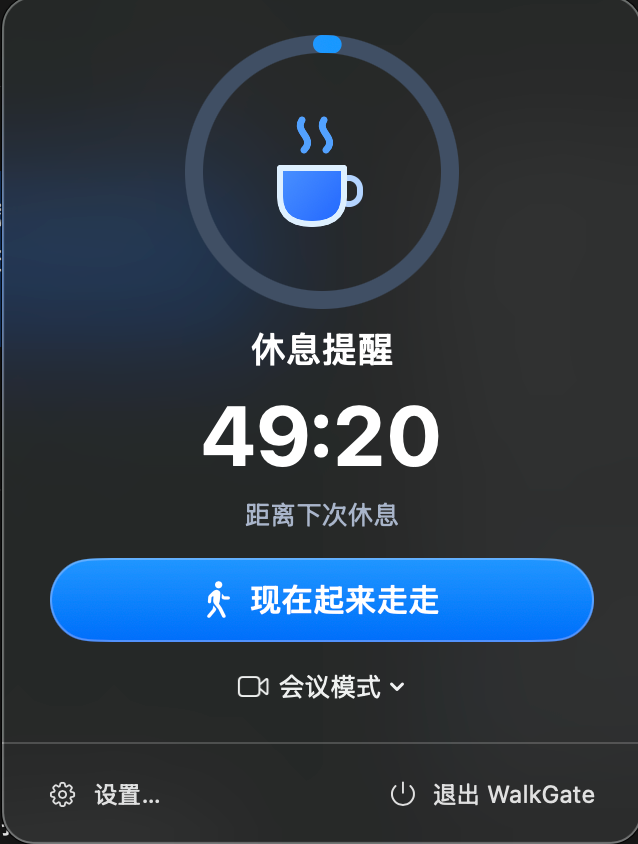
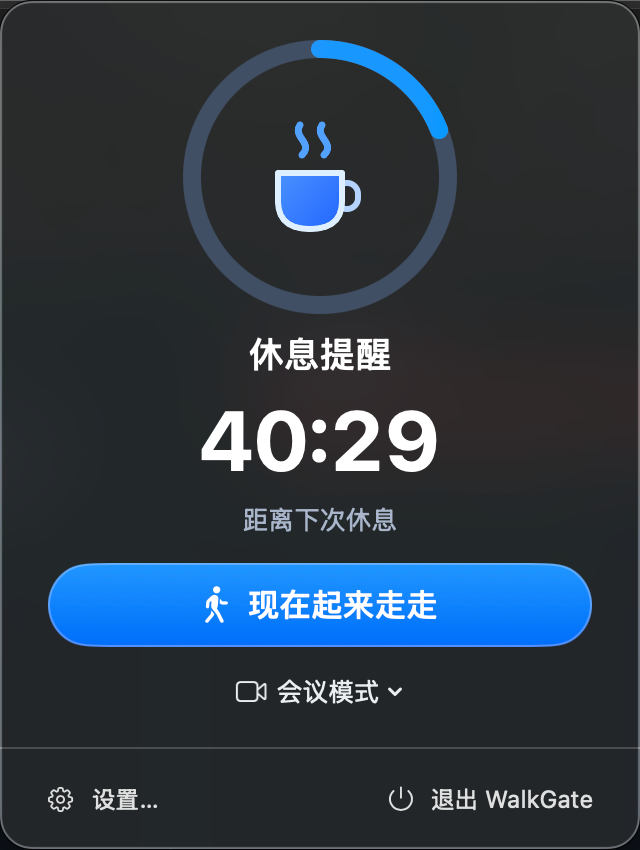
docs: 更新裁剪后的界面预览
- 替换为只保留主面板的无损截图
- 添加右下角休息卡片截图与说明

diff --git a/README.md b/README.md
@@ -6,8 +6,16 @@
 
 > 当前版本：`0.2.0` · 支持 macOS 14 及以上版本
 
+## 界面预览
+
 <p align="center">
-  <img src="docs/images/walkgate-menu.png" width="320" alt="WalkGate 菜单栏主界面">
+  <img src="docs/images/walkgate-menu.png" width="320" alt="WalkGate 菜单栏主界面"><br>
+  <sub>菜单栏主界面</sub>
+</p>
+
+<p align="center">
+  <img src="docs/images/walkgate-break-card.png" width="600" alt="WalkGate 休息提醒卡片"><br>
+  <sub>右下角休息提醒卡片</sub>
 </p>
 
 ## 核心体验
